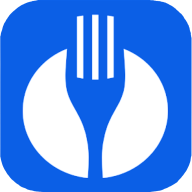
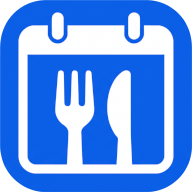
feat(brand): swap in the new calendar mark
Replace the leaf/fork badge with the new calendar mark, tinted to the
existing brand blue (#0B5FE6).

The lockup in assets/logo.png keeps the previous wordmark and the mark's
-8 degree tilt, measured from the old artwork, so the header keeps the
same composition. The mark itself is rebuilt from the source art with a
recovered alpha matte, which removes the cream halo the flat paper
background used to leave on dark surfaces.

Favicons get a simplified variant (badge + cutlery) at 16 and 32 px,
where the calendar frame, rings and cutlery collapse; index.html now
declares one asset per size so browsers stop downscaling a single large
bitmap.

diff --git a/index.html b/index.html
@@ -14,6 +14,10 @@
         background-color: #2c2c2c;
       }
     </style>
+    <!-- One asset per size: browsers then pick a native bitmap instead of
+         downscaling a large one, which is what made the 16 px tab icon look soft. -->
+    <link rel="icon" type="image/png" sizes="16x16" href="/favicon-16.png" />
+    <link rel="icon" type="image/png" sizes="32x32" href="/favicon-32.png" />
     <link rel="icon" type="image/png" sizes="64x64" href="/favicon.png" />
     <link rel="apple-touch-icon" sizes="180x180" href="/apple-touch-icon.png" />
     <link rel="manifest" href="/manifest.webmanifest" />
